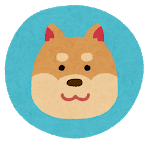
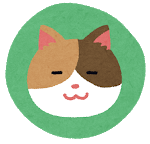
postとuserのアソシエーションエラーを解決！

diff --git a/app/assets/stylesheets/home.scss b/app/assets/stylesheets/home.scss
@@ -127,7 +127,7 @@ header {
   background-repeat: no-repeat;
   background-position: center 50%;
   background-size: cover;
-  background-image: image-url("/top.jpg");
+  background-image: image-url("top.jpg");
 }
 
 .top-message {

diff --git a/app/controllers/posts_controller.rb b/app/controllers/posts_controller.rb
@@ -1,5 +1,6 @@
 class PostsController < ApplicationController
   before_action :authenticate_user
+  before_action :ensure_correct_user, {only: [:edit, :update, :destroy]}
 
   def index
     @posts = Post.all.order(created_at: :desc)
@@ -7,7 +8,7 @@ class PostsController < ApplicationController
 
   def show
     @post = Post.find_by(id: params[:id])
-    @user = User.find_by(id: @post.user_id)
+    @user = @post.user
   end
 
   def new
@@ -18,7 +19,7 @@ class PostsController < ApplicationController
     @post = Post.new(
       content: params[:content],
       user_id: @current_user.id
-      )
+    )
     if @post.save
       flash[:notice] = "投稿が完了しました"
       redirect_to("/posts/index")
@@ -38,7 +39,7 @@ class PostsController < ApplicationController
       flash[:notice] = "投稿を編集しました"
       redirect_to("/posts/index")
     else
-      render("/posts/edit")
+      render("posts/edit")
     end
   end
 
@@ -48,4 +49,13 @@ class PostsController < ApplicationController
     flash[:notice] = "投稿を削除しました"
     redirect_to("/posts/index")
   end
+
+  def ensure_correct_user
+    @post = Post.find_by(id: params[:id])
+    if @post.user_id != @current_user.id
+      flash[:notice] = "権限がありません"
+      redirect_to("/posts/index")
+    end
+  end
+
 end

diff --git a/app/controllers/users_controller.rb b/app/controllers/users_controller.rb
@@ -19,7 +19,8 @@ class UsersController < ApplicationController
     @user = User.new(
       name: params[:name],
       email: params[:email],
-      image_name: "PF_users_inu.png",
+      # 初期ユーザー画像（画像設定していない時の画像）
+      image_name: "default_user.png",
       password: params[:password]
     )
     if @user.save
@@ -76,7 +77,7 @@ class UsersController < ApplicationController
     flash[:notice] = "ログアウトしました"
     redirect_to("/login")
   end
-  
+
   def ensure_correct_user
     if @current_user.id != params[:id].to_i
       flash[:notice] = "権限がありません"

diff --git a/app/models/user.rb b/app/models/user.rb
@@ -2,4 +2,7 @@ class User < ApplicationRecord
   validates :name, {presence: true}
   validates :email, {presence: true, uniqueness: true}
   validates :password, {presence: true}
+  
+  has_many :posts,  dependent: :destroy
+  
 end

diff --git a/app/models/post.rb b/app/models/post.rb
@@ -2,8 +2,6 @@ class Post < ApplicationRecord
   validates :content, {presence: true}
   validates :user_id, {presence: true}
 
-  def user
-    return User.find_by(id: self.user_id)
-  end
+   belongs_to :user
 
 end
